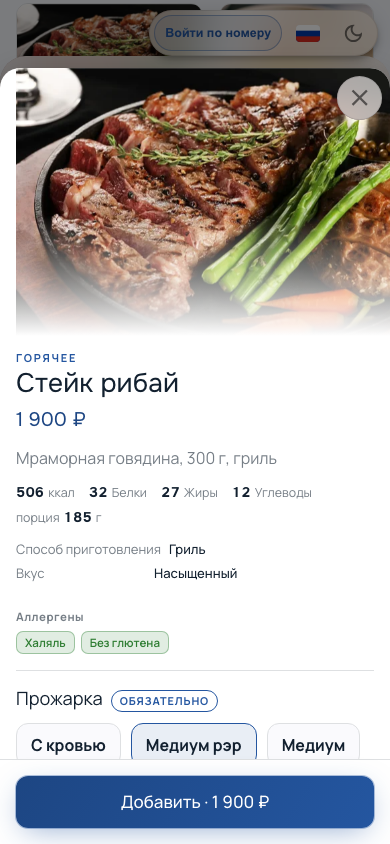
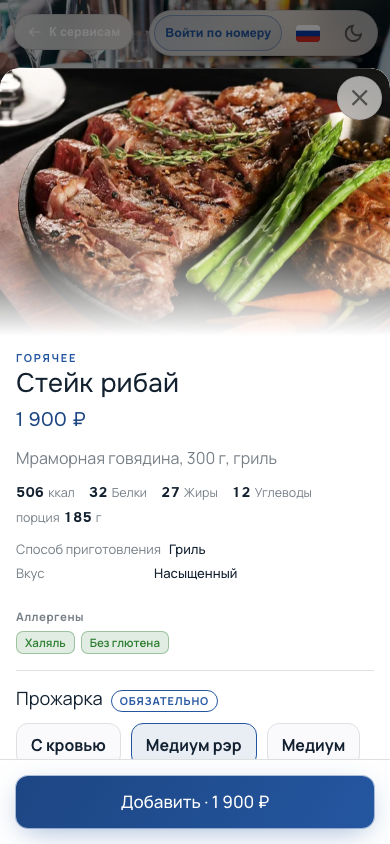
Хвост: кадр позиции упирается в края карточки
Осталась белая полоска слева: кадр был нужной ШИРИНЫ, но сдвинут вправо на
16px — начинался в x=16 и вылезал за правый край.

Причина: родитель — `Stack`, а он в MUI сбрасывает `margin: 0` у всех прямых
детей селектором с большей специфичностью, чем класс самого элемента. Поэтому
молча обнулялись и `mx: -2`, и явный `marginInlineStart`: ширина применялась,
сдвиг — нет. Вынос за поля переведён на `insetInlineStart` — `position:
relative` у блока уже был, а `inset*` Stack не трогает.

Верхние углы кадра скруглены по радиусу карточки: он теперь упирается в них, и
прямой угол снимка торчал бы из скруглённой шторки.

Сторож усилен и это главное. Прошлая версия сравнивала только ширину — и
пропустила ровно то, ради чего написана: ширина сходилась, а картинка не стояла
на месте. Теперь проверяются КРАЯ (зазор слева и вылет справа), на телефоне и
десктопе, в обеих темах. Заодно проверка перекрытия чипа расширена на планшет:
плавающая группа живёт в ветке «телефон/планшет», а сторож знал только телефон.

Changed region(s): [[0.0, 0.0, 1.0, 0.4005]]

diff --git a/e2e/tests/entry-and-layout.spec.ts b/e2e/tests/entry-and-layout.spec.ts
@@ -62,10 +62,18 @@ test.describe('Экран входа — раскладка «Полотно»',
   }
 })
 
-test.describe('Мобильная: строка категорий и плавающий чип', () => {
+// Плавающая группа живёт в ветке «телефон/планшет» (десктоп-шелл начинается с
+// 1024), поэтому проверять надо обе узкие ширины, а не только телефон.
+const NARROW: Array<[string, number, number]> = [
+  ['телефон', 390, 844],
+  ['планшет', 834, 1112],
+]
+
+test.describe('Узкий экран: строка категорий и плавающий чип', () => {
+  for (const [label, width, height] of NARROW)
   for (const mode of ['dark', 'light'] as const) {
-    test(`${mode}: не пересекаются при прокрутке`, async ({ page }) => {
-      await page.setViewportSize({ width: 390, height: 844 })
+    test(`${label}, ${mode}: не пересекаются при прокрутке`, async ({ page }) => {
+      await page.setViewportSize({ width, height })
       await venueMenu(page, mode)
 
       const chip = page
@@ -84,7 +92,7 @@ test.describe('Мобильная: строка категорий и плава
         const barBox = (await bar.boundingBox())!
         expect(
           chipBox.y + chipBox.height,
-          `${mode}, прокрутка ${offset}: чип наезжает на строку категорий`,
+          `${label}/${mode}, прокрутка ${offset}: чип наезжает на строку категорий`,
         ).toBeLessThanOrEqual(barBox.y + 1)
       }
     })
@@ -92,9 +100,10 @@ test.describe('Мобильная: строка категорий и плава
 })
 
 test.describe('Карточка позиции', () => {
+  for (const [label, width, height] of SIZES.filter(([l]) => l !== 'планшет'))
   for (const mode of ['dark', 'light'] as const) {
-    test(`${mode}: кадр от самого верха, крестик поверх него`, async ({ page }) => {
-      await page.setViewportSize({ width: 390, height: 844 })
+    test(`${label}, ${mode}: кадр от самого верха и до краёв`, async ({ page }) => {
+      await page.setViewportSize({ width, height })
       await venueMenu(page, mode)
       await page.locator('[data-testid^="guest-item-"]').first().click()
 
@@ -110,11 +119,27 @@ test.describe('Карточка позиции', () => {
       // сдвигала его вниз на ~60px.
       expect(
         media.y - sheetBox.y,
-        `${mode}: между верхом карточки и кадром не должно быть полосы`,
+        `${label}/${mode}: между верхом карточки и кадром не должно быть полосы`,
       ).toBeLessThan(12)
 
-      // И во всю ширину карточки.
-      expect(media.width).toBeGreaterThan(sheetBox.width - 4)
+      /*
+        И упирается в края — проверяем именно КРАЯ, а не ширину.
+
+        Прошлая версия сторожа сравнивала только ширину, и пропустила ровно то,
+        ради чего написана: кадр был нужной ширины, но сдвинут вправо на 16px —
+        слева белая полоска, справа вылет за карточку. Ширина сходилась,
+        картинка не стояла на месте.
+      */
+      expect(
+        media.x - sheetBox.x,
+        `${label}/${mode}: зазор слева между кадром и краем карточки`,
+      ).toBeLessThan(2)
+      // Справа кадр не должен вылезать за карточку (на десктопе он занимает
+      // свою колонку, поэтому сверяем с её правым краем, а не с краем окна).
+      expect(
+        media.x + media.width,
+        `${label}/${mode}: кадр вылезает за правый край карточки`,
+      ).toBeLessThanOrEqual(sheetBox.x + sheetBox.width + 2)
 
       // Крестик лежит НА кадре, а не над ним.
       expect(close.y).toBeGreaterThanOrEqual(media.y - 1)

diff --git a/frontend/src/guest/components/ItemHeadline.tsx b/frontend/src/guest/components/ItemHeadline.tsx
@@ -44,9 +44,17 @@ export function ItemMedia({
   const isRail = variant === 'rail';
   return (
     <Box
-      sx={{
+      sx={(theme) => ({
         position: 'relative',
         overflow: 'hidden',
+        // Кадр упирается в верхние углы карточки — скругляем по её же радиусу,
+        // иначе прямой угол снимка торчит из скруглённой шторки.
+        ...(bleed
+          ? {
+              borderTopLeftRadius: `${theme.palette.brand.radius.lg}px`,
+              borderTopRightRadius: `${theme.palette.brand.radius.lg}px`,
+            }
+          : {}),
         ...(isRail
           ? { width: '100%', height: '100%', alignSelf: 'stretch', minHeight: '100%' }
           : {
@@ -55,17 +63,25 @@ export function ItemMedia({
               // высокая картинка не должна выталкивать тело за экран.
               height: { xs: 268, sm: 300 },
               flexShrink: 0,
-              // Явные значения, а не шорткат `mx`: содержимое шторки лежит в
-              // прокрутке с 16px по бокам, и кадр обязан ровно на них выйти.
+              /*
+                Вынос за поля СДВИГОМ, а не отрицательным полем.
+
+                Родитель — `Stack`, а он в MUI сбрасывает `margin: 0` у всех
+                прямых детей селектором с большей специфичностью, чем класс
+                самого элемента. Поэтому и `mx: -2`, и явный
+                `marginInlineStart` молча обнулялись: ширина применялась, а
+                сдвиг нет — кадр становился шире карточки, но упирался не в
+                левый край, а в границу отступа, оставляя слева белую полоску и
+                вылезая справа.
+
+                `position: relative` у этого блока уже есть, а `inset*` Stack не
+                трогает.
+              */
               ...(bleed
-                ? {
-                    width: 'calc(100% + 32px)',
-                    marginInlineStart: '-16px',
-                    marginInlineEnd: '-16px',
-                  }
+                ? { width: 'calc(100% + 32px)', insetInlineStart: '-16px' }
                 : { width: '100%' }),
             }),
-      }}
+      })}
     >
       <KitImage src={item.images?.[0]} alt={item.title} fill fallbackIcon={icon} fallbackIconSize={isRail ? 64 : 48} />
       {/* Dissolve edge — the media melts into the content's background. */}
